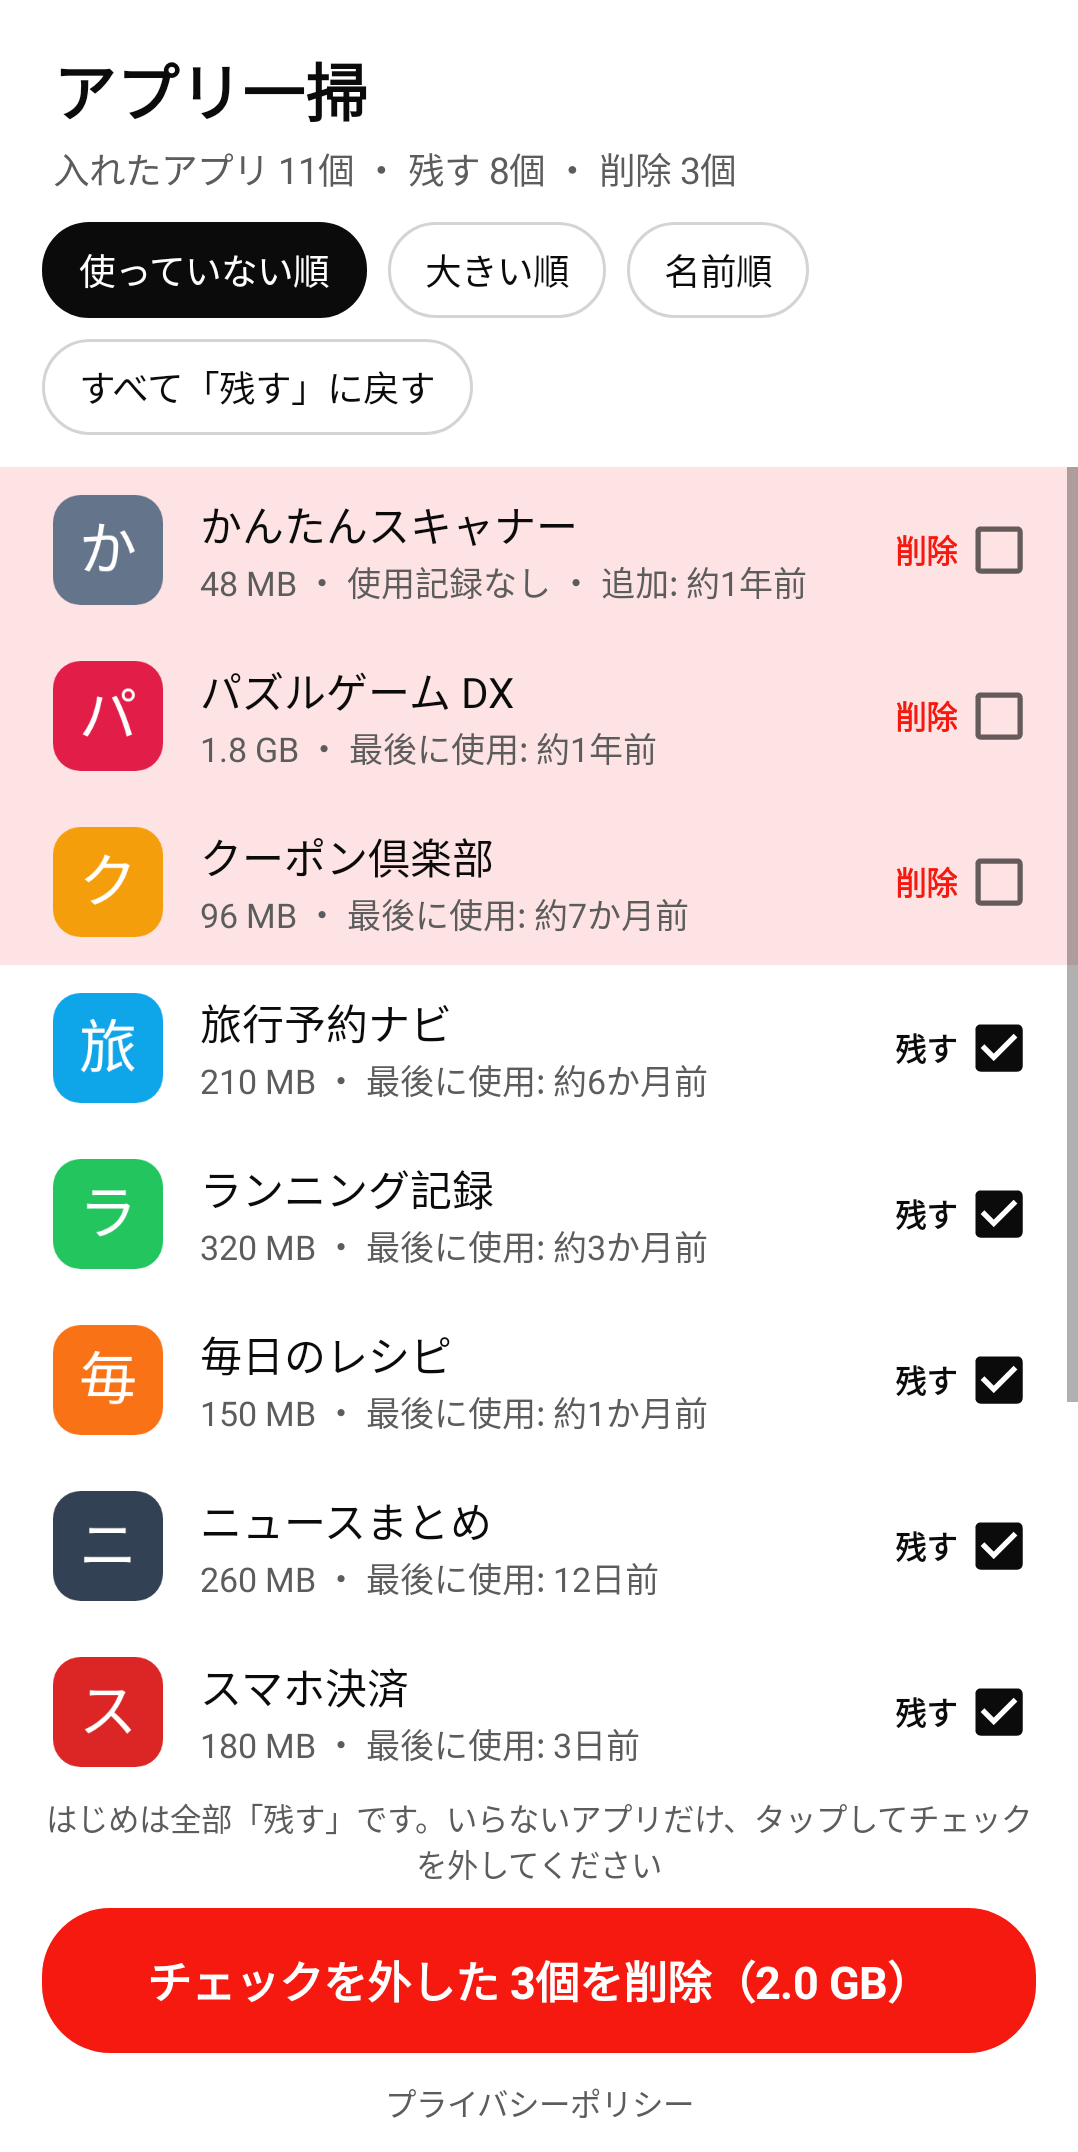
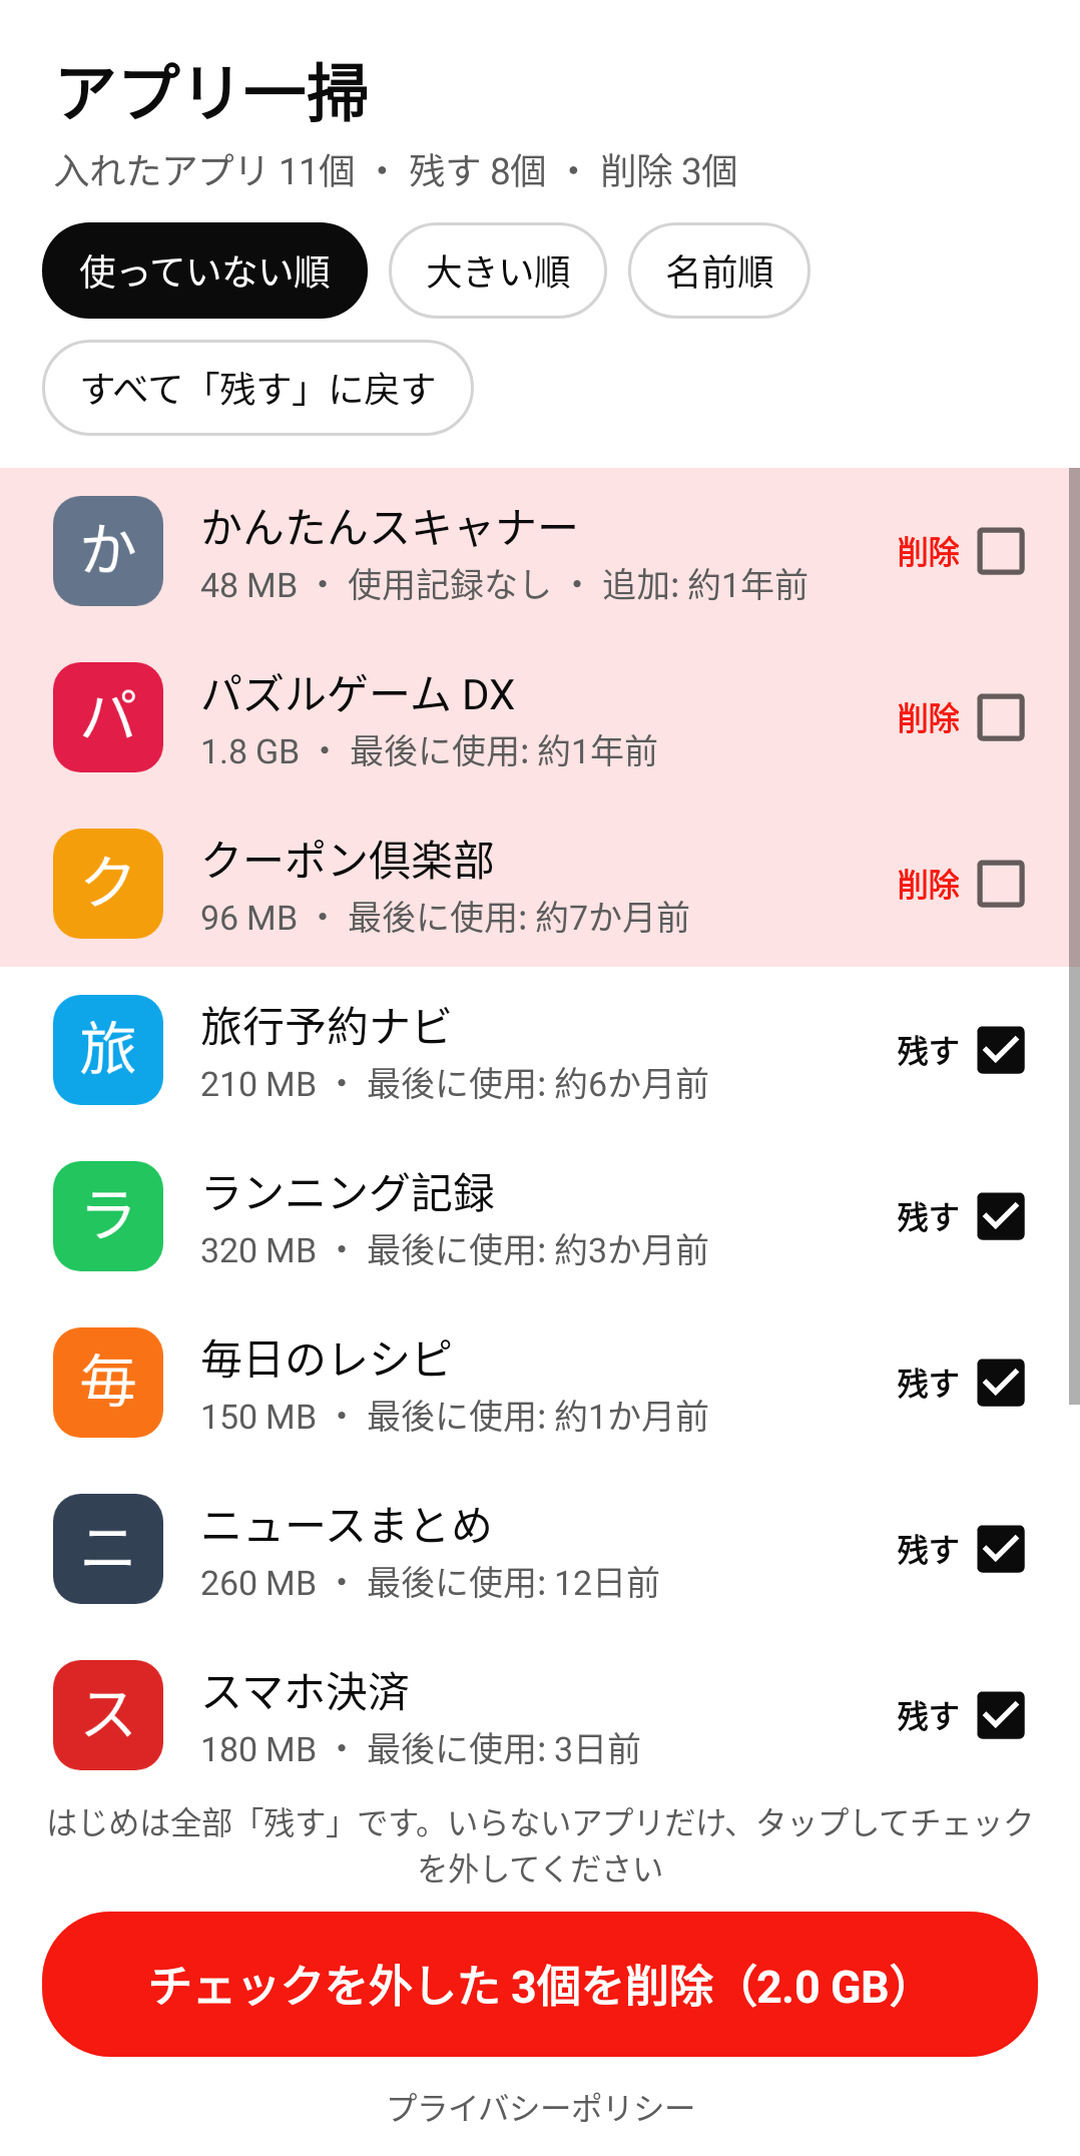
アプリ一掃: ストア用スクリーンショットを横 1080 ピクセルに（Google Play のプロモーション対象の条件に合わせる）
Claude-Session: https://claude.ai/code/session_01WQewJuRn2mGB1EbdpVRuwB

diff --git a/sweep-android/store/README.md b/sweep-android/store/README.md
@@ -153,7 +153,7 @@ Androidアプリ一掃アプリ
 
 ## 5. スクリーンショット
 
-`sweep-android/store/screenshots/` の 5 枚を、番号の順にアップロードします（1078×2152。Google Play の「長い辺は短い辺の 2 倍まで」に収まる大きさ）。
+`sweep-android/store/screenshots/` の 5 枚を、番号の順にアップロードします（1080×2156。Google Play の「長い辺は短い辺の 2 倍まで」に収まる大きさ）。
 
 | ファイル | 画面 |
 |---|---|
